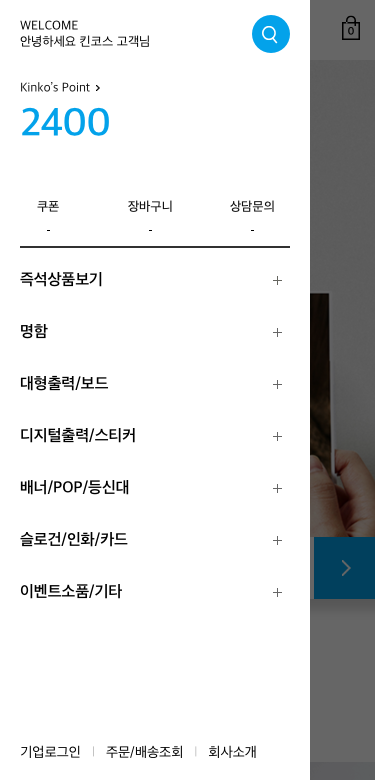
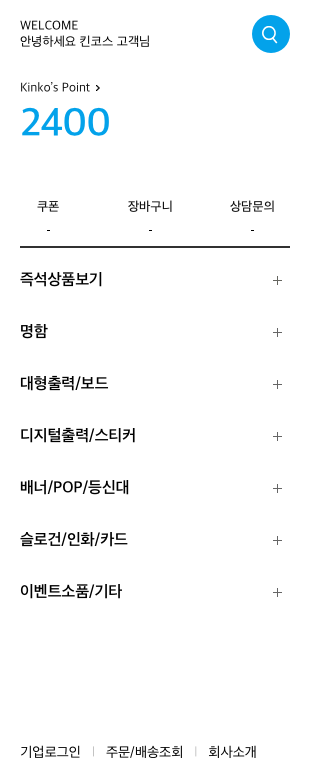
수정 반영 완료

diff --git a/TypeB/TypeB-mall.html b/TypeB/TypeB-mall.html
@@ -76,8 +76,8 @@
           <div class="txt right"><img src="./images/mall/txt-slide01.png" alt=""></div>
         </div>
         <div class="swiper-slide">
-          <div class="bg"><img src="./images/mall/bg-slide01.jpg" alt=""></div>
-          <div class="txt left"><img src="./images/mall/txt-slide01.png" alt=""></div>
+          <div class="bg"><img src="./images/mall/bg-slide02.jpg" alt=""></div>
+          <div class="txt right2"><img src="./images/mall/txt-slide02.png" alt=""></div>
         </div>
       </div>
       <div class="swiper-pagination"></div>
@@ -209,63 +209,31 @@
             <div class="swiper-slide">
               <div class="items">
                 <div class="item">
-                  <div class="thumb"><img src="./images/mall/img-consult01.jpg" alt=""></div>
+                  <div class="thumb"><img src="./images/mall/img-consult05.jpg" alt=""></div>
                   <div class="txt">
-                    <span class="name">하드 커버_메뉴판 A4형</span>
-                    <span class="price"><b>5,000</b>원</span>
+                    <span class="name">포스터 패키지 A0형</span>
+                    <span class="price"><b>45,000</b>원</span>
                   </div>
                 </div>
                 <div class="item">
-                  <div class="thumb"><img src="./images/mall/img-consult02.jpg" alt=""></div>
+                  <div class="thumb"><img src="./images/mall/img-consult06.jpg" alt=""></div>
                   <div class="txt">
-                    <span class="name">X배너</span>
-                    <span class="price"><b>5,000</b>원</span>
+                    <span class="name">원형 스티커 3종</span>
+                    <span class="price"><b>6,000</b>원 <span class="tag"><img src="./images/mall/txt-tag-org.png" alt=""></span></span>
                   </div>
                 </div>
                 <div class="item">
-                  <div class="thumb"><img src="./images/mall/img-consult03.jpg" alt=""></div>
+                  <div class="thumb"><img src="./images/mall/img-consult07.jpg" alt=""></div>
                   <div class="txt">
-                    <span class="name">사각라운드스티커</span>
-                    <span class="price"><b>5,000</b>원 <span class="tag"><img src="./images/mall/txt-tag-org.png" alt=""></span></span>
+                    <span class="name">2단 브로슈어</span>
+                    <span class="price"><b>14,000</b>원 <span class="tag"><img src="./images/mall/txt-tag-org.png" alt=""></span></span>
                   </div>
                 </div>
                 <div class="item">
-                  <div class="thumb"><img src="./images/mall/img-consult04.jpg" alt=""></div>
+                  <div class="thumb"><img src="./images/mall/img-consult08.jpg" alt=""></div>
                   <div class="txt">
-                    <span class="name">소량명함 10매</span>
-                    <span class="price"><b>5,000</b>원</span>
-                  </div>
-                </div>
-              </div>
-            </div>
-            <div class="swiper-slide">
-              <div class="items">
-                <div class="item">
-                  <div class="thumb"><img src="./images/mall/img-consult01.jpg" alt=""></div>
-                  <div class="txt">
-                    <span class="name">하드 커버_메뉴판 A4형</span>
-                    <span class="price"><b>5,000</b>원</span>
-                  </div>
-                </div>
-                <div class="item">
-                  <div class="thumb"><img src="./images/mall/img-consult02.jpg" alt=""></div>
-                  <div class="txt">
-                    <span class="name">X배너</span>
-                    <span class="price"><b>5,000</b>원</span>
-                  </div>
-                </div>
-                <div class="item">
-                  <div class="thumb"><img src="./images/mall/img-consult03.jpg" alt=""></div>
-                  <div class="txt">
-                    <span class="name">사각라운드스티커</span>
-                    <span class="price"><b>5,000</b>원 <span class="tag"><img src="./images/mall/txt-tag-org.png" alt=""></span></span>
-                  </div>
-                </div>
-                <div class="item">
-                  <div class="thumb"><img src="./images/mall/img-consult04.jpg" alt=""></div>
-                  <div class="txt">
-                    <span class="name">소량명함 10매</span>
-                    <span class="price"><b>5,000</b>원</span>
+                    <span class="name">특수명함</span>
+                    <span class="price"><b>30,000</b>원</span>
                   </div>
                 </div>
               </div>
@@ -298,6 +266,38 @@
                   <div class="txt">
                     <span class="name">소량명함 10매</span>
                     <span class="price"><b>5,000</b>원</span>
+                  </div>
+                </div>
+              </div>
+            </div>
+            <div class="swiper-slide">
+              <div class="items">
+                <div class="item">
+                  <div class="thumb"><img src="./images/mall/img-consult05.jpg" alt=""></div>
+                  <div class="txt">
+                    <span class="name">포스터 패키지 A0형</span>
+                    <span class="price"><b>45,000</b>원</span>
+                  </div>
+                </div>
+                <div class="item">
+                  <div class="thumb"><img src="./images/mall/img-consult06.jpg" alt=""></div>
+                  <div class="txt">
+                    <span class="name">원형 스티커 3종</span>
+                    <span class="price"><b>6,000</b>원 <span class="tag"><img src="./images/mall/txt-tag-org.png" alt=""></span></span>
+                  </div>
+                </div>
+                <div class="item">
+                  <div class="thumb"><img src="./images/mall/img-consult07.jpg" alt=""></div>
+                  <div class="txt">
+                    <span class="name">2단 브로슈어</span>
+                    <span class="price"><b>14,000</b>원 <span class="tag"><img src="./images/mall/txt-tag-org.png" alt=""></span></span>
+                  </div>
+                </div>
+                <div class="item">
+                  <div class="thumb"><img src="./images/mall/img-consult08.jpg" alt=""></div>
+                  <div class="txt">
+                    <span class="name">특수명함</span>
+                    <span class="price"><b>30,000</b>원</span>
                   </div>
                 </div>
               </div>
@@ -384,35 +384,35 @@
           </ul>
           <ul class="items">
             <li>
-              <div class="thumb"><img src="./images/mall/img-amount01.jpg" alt=""></div>
+              <div class="thumb"><img src="./images/mall/img-amount05.jpg" alt=""></div>
               <div class="txt">
-                <strong>소량명함 10매</strong>
-                <span class="desc">작지만, 홍보효과 톡톡!</span>
+                <strong>컬러 대형포스터</strong>
+                <span class="desc">선명하고 풍부한 컬러!</span>
                 <span class="price"><b>5,000</b>원 <span class="tag"><img src="./images/mall/txt-tag-org.png" alt=""></span></span>
               </div>
             </li>
             <li>
-              <div class="thumb"><img src="./images/mall/img-amount02.jpg" alt=""></div>
+              <div class="thumb"><img src="./images/mall/img-amount06.jpg" alt=""></div>
               <div class="txt">
-                <strong>브로슈어 2단(4p)</strong>
-                <span class="desc">3시간만에 완성되는 2단 브로슈어</span>
-                <span class="price"><b>18,000</b>원</span>
+                <strong>종이 슬로건</strong>
+                <span class="desc">나만의 굿즈, 셀프 촬영 소품</span>
+                <span class="price"><b>8,000</b>원 <span class="tag"><img src="./images/mall/txt-tag-org.png" alt=""></span></span>
               </div>
             </li>
             <li>
-              <div class="thumb"><img src="./images/mall/img-amount03.jpg" alt=""></div>
+              <div class="thumb"><img src="./images/mall/img-amount07.jpg" alt=""></div>
               <div class="txt">
-                <strong>투명부채_원형(2개-1SET)</strong>
-                <span class="desc">올 여름, 나만의 부채를 준비해보세요!</span>
-                <span class="price"><b>47,000</b>원</span>
+                <strong>즉석 사진인화</strong>
+                <span class="desc">2시간만에 완성되는 즉석인화</span>
+                <span class="price"><b>500</b>원</span>
               </div>
             </li>
             <li>
-              <div class="thumb"><img src="./images/mall/img-amount04.jpg" alt=""></div>
+              <div class="thumb"><img src="./images/mall/img-amount08.jpg" alt=""></div>
               <div class="txt">
-                <strong>미니 등신대</strong>
-                <span class="desc">작지만, 홍보효과 톡톡!</span>
-                <span class="price"><b>25,000</b>원 <span class="tag"><img src="./images/mall/txt-tag-org.png" alt=""></span></span>
+                <strong>X배너(2개-1SET)</strong>
+                <span class="desc">홍보효과 만점, 실내용 배너</span>
+                <span class="price"><b>11,000</b>원</span>
               </div>
             </li>
           </ul>

diff --git a/TypeA/TypeA-main.html b/TypeA/TypeA-main.html
@@ -99,19 +99,19 @@
           <h2>Kinko’s에서 제공하는 서비스</h2>
         </div>
         <ul>
-          <li class="wow fadeInRight"><a href="#" class="thumb">디지털 출력 ・ 복사<span class="over"><img src="./images/main/img-over.jpg" alt=""></span></a></li>
+          <li class="wow fadeInRight"><a href="#" class="thumb">디지털 출력 ・ 복사</a></li>
           <li class="wow fadeInRight"><a href="#" class="thumb">제본<span class="over"><img src="./images/main/img-over.jpg" alt=""></span></a></li>
-          <li class="wow fadeInRight"><a href="#" class="thumb">후가공<span class="over"><img src="./images/main/img-over.jpg" alt=""></span></a></li>
-          <li class="wow fadeInRight"><a href="#" class="thumb">사인앤그래픽<span class="over"><img src="./images/main/img-over.jpg" alt=""></span></a></li>
-          <li class="wow fadeInRight"><a href="#" class="thumb">스캔투파일<span class="over"><img src="./images/main/img-over.jpg" alt=""></span></a></li>
-          <li class="wow fadeInRight"><a href="#" class="thumb">디자인<span class="over"><img src="./images/main/img-over.jpg" alt=""></span></a></li>
+          <li class="wow fadeInRight"><a href="#" class="thumb">후가공</a></li>
+          <li class="wow fadeInRight"><a href="#" class="thumb">사인앤그래픽</a></li>
+          <li class="wow fadeInRight"><a href="#" class="thumb">스캔투파일</a></li>
+          <li class="wow fadeInRight"><a href="#" class="thumb">디자인</a></li>
 
-          <li class="wow fadeInLeft"><a href="#" class="thumb">명함제작<span class="over"><img src="./images/main/img-over.jpg" alt=""></span></a></li>
-          <li class="wow fadeInLeft"><a href="#" class="thumb">고객편의 서비스<span class="over"><img src="./images/main/img-over.jpg" alt=""></span></a></li>
-          <li class="wow fadeInLeft"><a href="#" class="thumb">주요사례별 서비스<span class="over"><img src="./images/main/img-over.jpg" alt=""></span></a></li>
-          <li class="wow fadeInLeft"><a href="#" class="thumb">추천상품<span class="over"><img src="./images/main/img-over.jpg" alt=""></span></a></li>
-          <li class="wow fadeInLeft"><a href="#" class="thumb">법인우대 프로그램<span class="over"><img src="./images/main/img-over.jpg" alt=""></span></a></li>
-          <li class="wow fadeInLeft"><a href="#" class="thumb">DHL항공 특선<span class="over"><img src="./images/main/img-over.jpg" alt=""></span></a></li>
+          <li class="wow fadeInLeft"><a href="#" class="thumb">명함제작</a></li>
+          <li class="wow fadeInLeft"><a href="#" class="thumb">고객편의 서비스</a></li>
+          <li class="wow fadeInLeft"><a href="#" class="thumb">주요사례별 서비스</a></li>
+          <li class="wow fadeInLeft"><a href="#" class="thumb">추천상품</a></li>
+          <li class="wow fadeInLeft"><a href="#" class="thumb">법인우대 프로그램</a></li>
+          <li class="wow fadeInLeft"><a href="#" class="thumb">DHL항공 특선</a></li>
         </ul>
       </div>
 

diff --git a/TypeB/js/mall.js b/TypeB/js/mall.js
@@ -24,6 +24,7 @@
   $('.gnb > li > a').on('mouseenter', function() {
     var idx = $(this).parent().index();
 
+    $('.gnb > li > a').removeClass('on');
     $('.gnb > li > a').addClass('not_on');
     $(this).removeClass('not_on').addClass('on');
 
@@ -39,18 +40,18 @@
       $('.dim').show();
     }
   });
-  $('.gnb > li > a').on('mouseleave', function() {
-    $('.gnb > li > a').removeClass('on');
-  });
   $('#header').on('mouseleave', function() {
+    $('.gnb > li > a').removeClass('on');
     $('.gnb > li > a').removeClass('not_on');
     $('.sub_gnb').stop().slideUp(500);
     $('.dim').hide();
   });
   $('.header_top').on('mouseenter', function() {
+    $('.gnb > li > a').removeClass('on');
     $('.gnb > li > a').removeClass('not_on');
     $('.sub_gnb').stop().slideUp(500);
     $('.dim').hide();
+
   });
 })();
 
@@ -80,6 +81,7 @@ var mainSlide = new Swiper('.main_slide', {
   speed: 500,
   pagination: {
     el: '.swiper-pagination',
+    clickable: true,
   },
 });
 var speedSlide = new Swiper('.speed_slide', {
@@ -129,6 +131,6 @@ var consultSlide = new Swiper('.consult_slide', {
   });
   $('.btn_close').on('click', function() {
     $('.menu').removeClass('open');
-    $('body').css('overflow', 'visible');
+    $('body').css('overflow', 'auto');
   });
 })();

diff --git a/TypeA/js/mall.js b/TypeA/js/mall.js
@@ -13,12 +13,10 @@ $(document).ready(function(){
     $('.js-snb-title').text(title);
     $('#dim').show();
   });
-  $('.gnb_link > li > a').on('mouseleave', function() {
-    $('.gnb_link > li > a').removeClass('active');
-  });
   $('#header').on('mouseleave', function() {
     $('.gnb_dept2').stop().slideUp(500);
     $('#dim').hide();
+    $('.gnb_link > li > a').removeClass('active');
   });
   $('.gnb_dept1').on('mouseenter', function() {
     $('.gnb_dept2').stop().slideUp(500);
@@ -78,9 +76,13 @@ $(document).ready(function(){
     // mobile
     $('.gnb_open').on('click', function() {
       $('.m_gnb').addClass('active');
+      $('.mo_dim').show();
+      $('body').css('overflow', 'hidden');
     });
     $('.m_btn_prev').on('click', function() {
-			$('.m_gnb').removeClass('active');
+      $('.m_gnb').removeClass('active');
+      $('.mo_dim').hide();
+      $('body').css('overflow', 'auto');
     });
 
     // fixedmenu 

diff --git a/TypeB/css/mall.css b/TypeB/css/mall.css
@@ -340,9 +340,11 @@ strong {
   opacity: 0;
   transition: all .7s ease-in-out;
 }
-.main_slide .txt.right {
+.main_slide .txt.right,
+.main_slide .txt.right2 {
   right: 25%;
 }
+
 .main_slide .txt.left {
   left: 25%;
 }
@@ -351,6 +353,9 @@ strong {
 }
 .main_slide .swiper-slide-active .txt.right {
   right: 18.5%;
+}
+.main_slide .swiper-slide-active .txt.right2 {
+  right: 15.6%;
 }
 .main_slide .swiper-slide-active .txt.left {
   left: 18.5%;
@@ -598,7 +603,8 @@ strong {
 }
 .consult_slide .swiper-pagination .consult_nav {
   display: block;
-  margin-top: 20px;
+  margin-top: 15px;
+  padding: 4px 0;
   font-size: 18px;
   text-align: left;
 }
@@ -1028,7 +1034,7 @@ strong {
     position: absolute;
     left: -100%; top: 0;
     width: 100%; height: 100%;
-    transition: left .3s linear;
+    transition: left .3s ease;
   }
   #mo .menu > img {
     width: 100%;

diff --git a/TypeA/css/mall.css b/TypeA/css/mall.css
@@ -681,10 +681,14 @@ footer .footer_wrap {
     width: 160px; height: 50px;
   }
   .m_gnb {
-    position:absolute; top:0; bottom:0; left:-800px;
+    position:absolute; top:0; bottom:0; left: -100%;
     width:100%;
-    background-color:rgba(0,0,0,0.6); 
     transition:all 0.5s;
+    z-index: 10;
+  }
+  .m_gnb img {
+    width: auto !important;
+    max-width: 100% !important;
   }
   .m_gnb.active {
     left:0;
@@ -694,5 +698,12 @@ footer .footer_wrap {
     position:absolute; top:0; bottom:0;
     width:100%; height:100%; font-size:0;
     transition:all 0.5s;
+  }
+  .mo_dim {
+    display: none;
+    position: fixed;
+    left: 0; top:0;
+    width: 100%; height: 100%;
+    background: rgba(0, 0, 0, 0.6);
   }
 }

diff --git a/TypeB/TypeB-main.html b/TypeB/TypeB-main.html
@@ -390,9 +390,13 @@
   <script>
     $('.btn_menu').on('click', function() {
       $('.menu').addClass('open');
+      $('.mo_quick').hide();
+      $('body').css('overflow', 'hidden');
     });
     $('.btn_close').on('click', function() {
       $('.menu').removeClass('open');
+      $('.mo_quick').show();
+      $('body').css('overflow', 'auto');
     });
     var swiper = new Swiper('.visual-slide', {
       slidesPerView: 1,

diff --git a/TypeA/css/main.css b/TypeA/css/main.css
@@ -739,16 +739,15 @@ position: absolute;
 .section_service li .over {
   opacity: 0;
   position: absolute;
-  left: 0; bottom: -100%;
+  left: 0; top: 0;
   width: 100%; height: 100%;
-  transition: all .5s;
+  transition: opacity .5s;
 }
 .section_service li .over img {
   width: 100%;
 }
 .section_service li .over.on {
   opacity: 1;
-  bottom: 0;
 }
 
 .section_kko {

diff --git a/TypeA/TypeA-mall.html b/TypeA/TypeA-mall.html
@@ -516,6 +516,7 @@
         <a href="#a" class="m_btn_prev">gnb 닫기</a>
       </div>
     </div>
+    <div class="mo_dim"></div>
   </div>
   <script src="./js/jquery-3.4.1.min.js"></script>
   <script src="./js/wow.min.js"></script>
